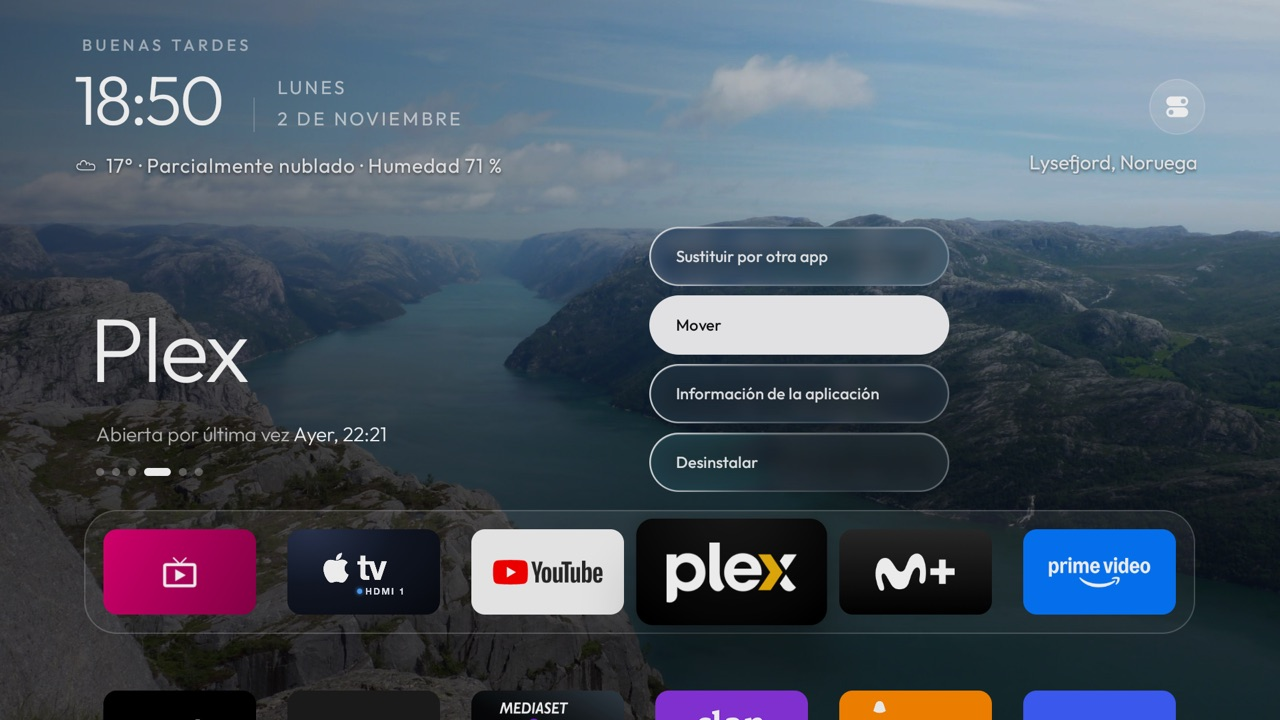
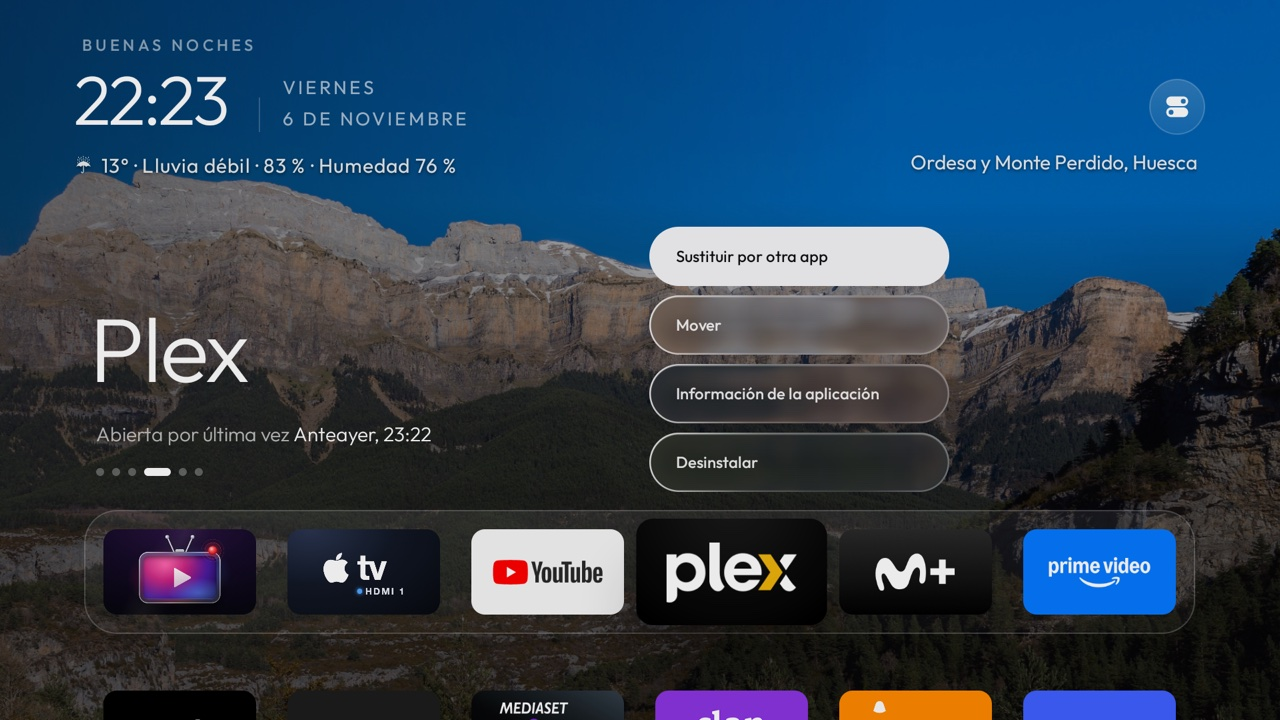
3.4-tv.1: capturas nuevas en el README / New README screenshots

diff --git a/README.md b/README.md
@@ -10,11 +10,11 @@
 > *A personal fork of Clean Your TV in an Apple TV style; see [mi-tv/README.md](mi-tv/README.md) (in Spanish).
 > The original README follows. Versioning: Clean Your TV's release, then `-tv.N` counts this branch's drops on top of it.*
 
-*Capturas de la versión 3.3-tv.5 en un Panasonic Google TV (2 nov 2026) · Screenshots of version 3.3-tv.5 (Clean Your TV 3.3 + this branch's 5th drop).*
+*Capturas de la versión 3.4-tv.1 en un Panasonic Google TV (6 nov 2026; la fila de abajo, de versiones anteriores) · Screenshots of version 3.4-tv.1 (Clean Your TV 3.4 + this branch's 1st drop on it; bottom row from earlier versions).*
 
 | Inicio / Home | Centro de control / Control Center | Menú de una app / App menu |
 |---|---|---|
-| ![Inicio: reloj, el tiempo, foto de fondo con su nombre y el dock con el icono nuevo de TV en Vivo enfocado](docs/fork/inicio.jpg) | ![Centro de control abierto: Apagar, Red, Modo noche, Entradas, VPN y Ajustes, cada botón su propio cristal sobre el fondo](docs/fork/centro-control.jpg) | ![Menú de Plex: Sustituir por otra app, Mover, Información de la aplicación y Desinstalar, en cristal sobre los iconos desenfocados](docs/fork/menu-app.jpg) |
+| ![Inicio: reloj, el tiempo con lluvia, foto de Ordesa con su nombre y el dock con TV en Vivo enfocado](docs/fork/inicio.jpg) | ![Centro de control abierto: Apagar, Red, Modo noche, Entradas, Chromecast, VPN y Ajustes, cada botón su propio cristal sobre el fondo](docs/fork/centro-control.jpg) | ![Menú de Plex: Sustituir por otra app, Mover, Información de la aplicación y Desinstalar, en cristal sobre los iconos desenfocados](docs/fork/menu-app.jpg) |
 | **Foco tvOS en la cuadrícula / tvOS focus in the grid** | **Modo noche / Night mode** | **Menú de ajustes / Settings menu** |
 | ![Atresplayer enfocado: crece un 25 % desde su centro, sin marco, y su nombre aparece debajo](docs/fork/foco-cuadricula.jpg) | ![Modo noche activado: fondo nocturno de auroras y la pantalla atenuada, con el Centro de control abierto](docs/fork/modo-noche.jpg) | ![Ajustes del televisor, Ajustes del lanzador, Tarjetas de módulos, Editar el dock y Reordenar apps, en cristal](docs/fork/menu-ajustes.jpg) |
 
